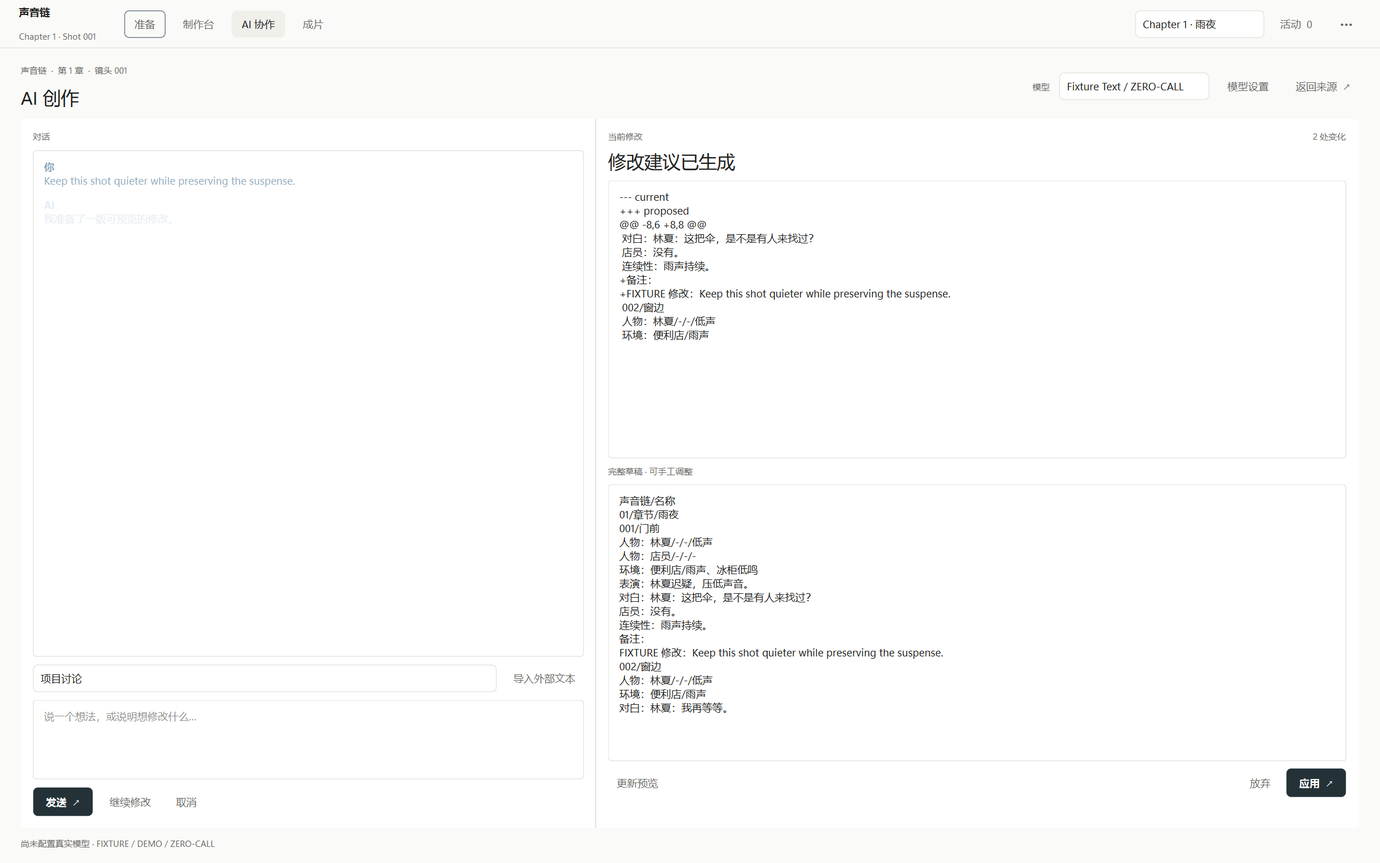
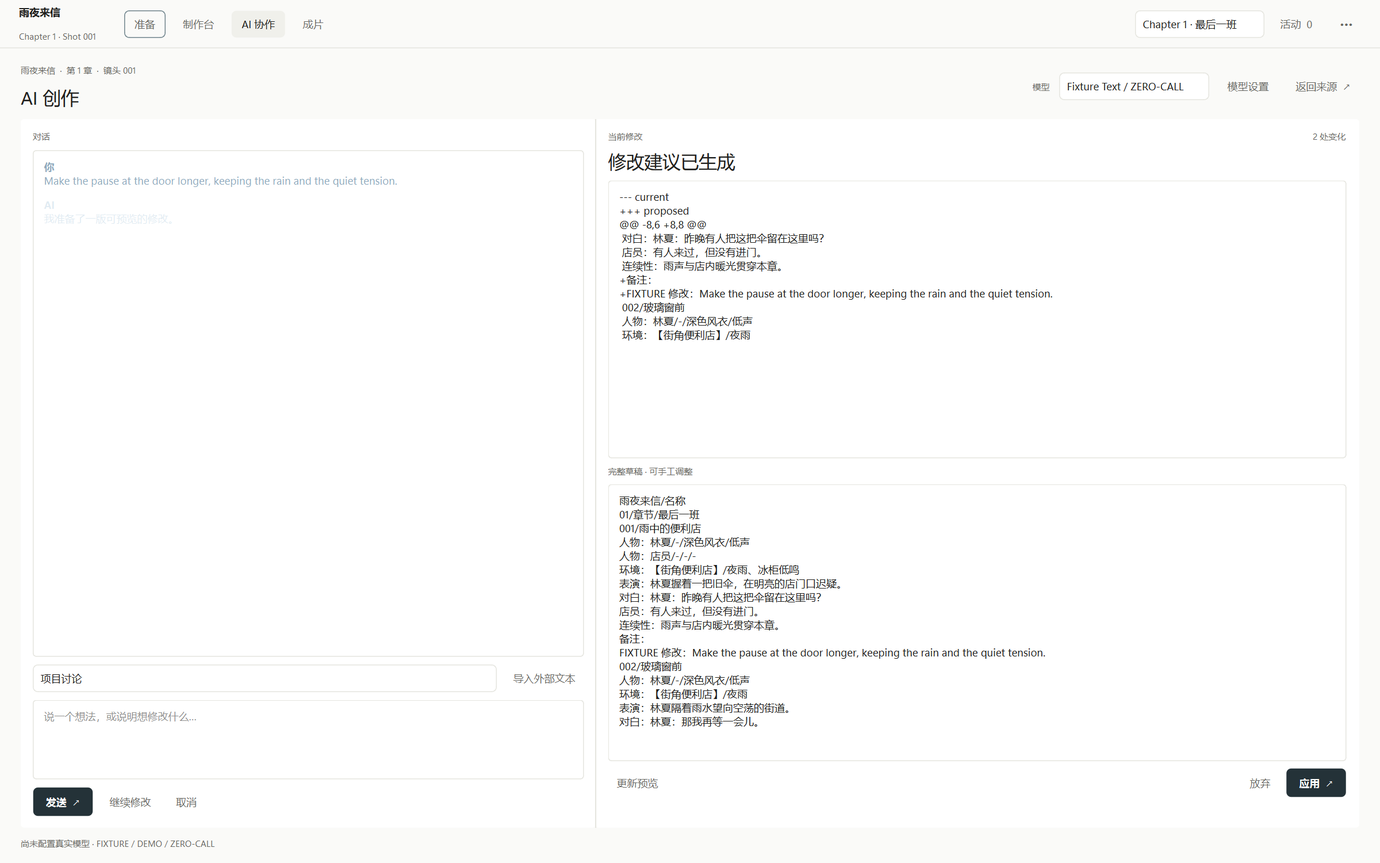
Document FFmpeg source gate and polish release assets

diff --git a/tools/capture_public_screenshots.py b/tools/capture_public_screenshots.py
@@ -2,6 +2,7 @@
 from __future__ import annotations
 
 import sys
+import subprocess
 from pathlib import Path
 from tempfile import TemporaryDirectory
 
@@ -18,7 +19,22 @@ from app.preparation.creative import CreativeService, Scope
 from app.preparation.production import ProductionService
 from app.preparation.runtime import ProductionRuntime
 from app.preparation.workspace import Workspace
-from tests.test_preparation_sound import SCRIPT
+SCRIPT = '''雨夜来信/名称
+01/章节/最后一班
+001/雨中的便利店
+人物：林夏/-/深色风衣/低声
+人物：店员/-/-/-
+环境：【街角便利店】/夜雨、冰柜低鸣
+表演：林夏握着一把旧伞，在明亮的店门口迟疑。
+对白：林夏：昨晚有人把这把伞留在这里吗？
+店员：有人来过，但没有进门。
+连续性：雨声与店内暖光贯穿本章。
+002/玻璃窗前
+人物：林夏/-/深色风衣/低声
+环境：【街角便利店】/夜雨
+表演：林夏隔着雨水望向空荡的街道。
+对白：林夏：那我再等一会儿。
+'''
 
 
 def settle(app: QApplication, milliseconds: int = 150) -> None:
@@ -39,6 +55,21 @@ def main() -> None:
         chapter = workspace.script.chapters[0]
         runtime = ProductionRuntime(workspace)
         production = ProductionService(workspace)
+        scene = ROOT / "app" / "preparation" / "demo_assets" / "convenience-store-night.png"
+        scene_clip = Path(temporary) / "rainy-convenience-store.mp4"
+        subprocess.run(
+            ["ffmpeg", "-hide_banner", "-loglevel", "error", "-y", "-loop", "1",
+             "-framerate", "25", "-i", str(scene), "-t", "4",
+             "-vf", "scale=960:540:force_original_aspect_ratio=increase,crop=960:540,format=yuv420p",
+             "-c:v", "libx264", "-preset", "veryfast", "-crf", "22",
+             "-movflags", "+faststart", str(scene_clip)],
+            check=True,
+        )
+        environment = next(r for r in workspace.script.requirements if r.kind == "environment")
+        environment_take = production.import_candidate(environment.id, chapter.shots[0].id, scene)
+        production.review(environment_take.id, "green", "Public synthetic scene reference")
+        production.bind(environment_take.id)
+        hero_candidate_id = None
         for shot in chapter.shots:
             request = runtime.build_request(shot.id, "video", None, "fixture-video-v1")
             job, _ = runtime.enqueue(request, user_intent="Public zero-call screenshot demo")
@@ -48,15 +79,19 @@ def main() -> None:
                 raise RuntimeError(f"Demo video fixture failed: {completed.status}")
             candidate = completed.candidate_ids[0]
             production.review(candidate, "green", "Public zero-call screenshot demo")
-            production.bind_shot(candidate)
+            imported = production.import_shot_candidate(shot.id, scene_clip)
+            production.review(imported.id, "green", "Local photo-based demo clip")
+            production.bind_shot(imported.id)
 
+            if shot.id == chapter.shots[0].id:
+                hero_candidate_id = imported.id
         shot = chapter.shots[0]
         scope = Scope(level="shot", chapter_id=chapter.id, shot_id=shot.id,
                       dialogue_id=shot.dialogues[0].id)
         creative = CreativeService(workspace)
         conversation = creative.active_conversation(scope)
         run, request = creative.begin(conversation["id"], "edit_shot",
-                                      "Keep this shot quieter while preserving the suspense.", scope)
+                                      "Make the pause at the door longer, keeping the rain and the quiet tension.", scope)
         creative.complete(run.id, request)
 
         shell = ApplicationShell(project, settings_path=Path(temporary) / "settings.json")
@@ -64,7 +99,7 @@ def main() -> None:
             shell.resize(1600, 1000)
             shell.show()
             settle(app, 250)
-            requirement = workspace.report()[0]["requirement"]["id"]
+            requirement = environment.id
             routes = (
                 ("production", {"object_type": "shot_current", "object_id": shot.id}),
                 ("preparation", {"object_type": "requirement", "object_id": requirement}),
@@ -73,6 +108,8 @@ def main() -> None:
             )
             for name, target in routes:
                 shell.navigate(name, chapter_id=chapter.id, shot_id=shot.id, **target)
+                if name == "production":
+                    shell.stack.currentWidget().refresh(hero_candidate_id)
                 settle(app, 220)
                 path = output / f"{name}-1600x1000.png"
                 if not shell.grab().save(str(path)):

diff --git a/tools/build_social_preview.py b/tools/build_social_preview.py
@@ -1,0 +1,47 @@
+"""Compose a GitHub social preview from the real public Production capture."""
+from __future__ import annotations
+
+from pathlib import Path
+
+from PIL import Image, ImageDraw, ImageFont
+
+
+ROOT = Path(__file__).resolve().parents[1]
+SCREENSHOT = ROOT / "docs/assets/screenshots/production-1600x1000.png"
+OUTPUT = ROOT / "docs/assets/social-preview.png"
+
+
+def font(size: int, bold: bool = False) -> ImageFont.FreeTypeFont:
+    name = "segoeuib.ttf" if bold else "segoeui.ttf"
+    return ImageFont.truetype(str(Path("C:/Windows/Fonts") / name), size)
+
+
+def main() -> None:
+    image = Image.new("RGB", (1280, 640), "#f6f8f9")
+    draw = ImageDraw.Draw(image)
+    draw.rounded_rectangle((28, 28, 1252, 612), radius=24, fill="#ffffff", outline="#dce5e9", width=2)
+    draw.rounded_rectangle((56, 61, 65, 111), radius=4, fill="#22a08a")
+    draw.text((85, 58), "AI Video Flow", font=font(53, True), fill="#142430")
+    draw.text((85, 141), "AI video production workflow", font=font(24), fill="#425968")
+    draw.text((85, 184), "for Windows", font=font(24), fill="#425968")
+    draw.line((85, 249, 405, 249), fill="#d6e1e6", width=2)
+    labels = ("PREPARATION", "PRODUCTION", "CREATIVE", "ASSEMBLY")
+    for index, label in enumerate(labels):
+        y = 280 + index * 54
+        draw.rounded_rectangle((85, y, 388, y + 40), radius=9,
+                               fill="#edf5f4" if index == 1 else "#f5f7f8")
+        draw.text((105, y + 10), label, font=font(17, True), fill="#21434a")
+    draw.text((85, 553), "v0.1.0-rc.1  ·  Real D-layout capture", font=font(17), fill="#6a7c86")
+
+    with Image.open(SCREENSHOT) as source:
+        ui = source.convert("RGB")
+        ui.thumbnail((767, 510), Image.Resampling.LANCZOS)
+    frame = Image.new("RGB", (780, 523), "#d8e2e7")
+    frame.paste(ui, ((780 - ui.width) // 2, (523 - ui.height) // 2))
+    image.paste(frame, (445, 58))
+    image.save(OUTPUT, optimize=True)
+    print(f"{OUTPUT.name}: {OUTPUT.stat().st_size} bytes")
+
+
+if __name__ == "__main__":
+    main()

diff --git a/tests/test_packaging.py b/tests/test_packaging.py
@@ -91,9 +91,11 @@ class PackagingContractTests(unittest.TestCase):
         root = Path(__file__).resolve().parents[1]
         spec = (root / "packaging/windows/AIGCFlow.spec").read_text(encoding="utf-8")
         self.assertIn('"third_party/licenses"', spec)
+        self.assertIn('"third_party/ffmpeg"', spec)
         self.assertIn('"virtualkeyboard" not in item[0].casefold()', spec)
         for relative in (
             "LICENSE", "THIRD_PARTY_NOTICES.md",
+            "third_party/ffmpeg/PROVENANCE.md",
             "third_party/licenses/LGPL-2.1.txt",
             "third_party/licenses/LGPL-3.0.txt",
             "third_party/licenses/GPL-3.0.txt",

diff --git a/docs/PUBLIC_RELEASE_DELTA_V0.1.md b/docs/PUBLIC_RELEASE_DELTA_V0.1.md
@@ -1,0 +1,50 @@
+# Final Release Polish & Compliance Gate V0.1 — delta review
+
+Date: 2026-09-24. Baseline: [`PUBLIC_RELEASE_AUDIT_V0.1.md`](PUBLIC_RELEASE_AUDIT_V0.1.md), local `master` at `babde0aea41c2bdef4ada10d0c580541bf620810`. This report covers only changes and rechecks since that audit. It does not authorize a GitHub repository, push, tag, Release or binary upload.
+
+**PUBLIC RELEASE GATE = FAIL · READY TO PUBLISH = NO.** The known GPLv3 static FFmpeg/FFprobe corresponding-source blocker remains. Visual improvements and passing installation smoke cannot waive it.
+
+## FFmpeg and distribution strategy
+
[1 lines of base64/hex data omitted]
+
+The installed package and inspected [vendor build page](https://www.gyan.dev/ffmpeg/builds/) expose the FFmpeg commit and distributor README, **not** a verified complete recipe, patches and accessible corresponding source for every statically linked component of these exact binary hashes. Some dependency versions are listed, but not a uniformly pinned source chain. This is an evidence gap, not an allegation of vendor noncompliance. [FFmpeg's legal guidance](https://ffmpeg.org/legal.html) and the [GNU GPL FAQ](https://www.gnu.org/licenses/gpl-faq.en.html) explain why the source must correspond to redistributed binaries. No complete source artifact or compliant access path has been verified; none is invented in the release notes or checksums.
+
+Strategy: retain the tested Gyan binaries **locally only**, with publication blocked. [BtbN's public build scripts and package recipes](https://github.com/BtbN/FFmpeg-Builds) are a promising replacement route, but an exact binary + recipe revision + corresponding-source package has not been fetched and verified here; swapping on that evidence would merely replace one unresolved chain with another and require new media/Installer QA. A minimal self-build is higher maintenance; unbundling FFmpeg would degrade install-and-run behavior and requires a separate product decision. The smallest next step is to obtain the exact Gyan source/build chain from the distributor, or verify and package a pinned alternative's complete corresponding source, then rerun the affected gate.
+
+The project's Apache-2.0 license still covers only its own code. FFmpeg and FFprobe remain GPLv3. No media dependency or executable changed; the distributed [`THIRD_PARTY_NOTICES.md`](../THIRD_PARTY_NOTICES.md) now links the exact-binary provenance record, which is bundled at `_internal/third_party/ffmpeg/PROVENANCE.md` and byte-identical to the repository copy. Previously audited Qt/PySide6, Qt Multimedia FFmpeg DLLs, OpenTimelineIO, PyInstaller, Inno Setup, CPython, Pillow and pydantic notices remain unchanged. Qt Virtual Keyboard remains excluded. Exact Qt module/source attribution should be rechecked before public binary publication, as noted in the baseline audit.
+
+## Presentation assets
+
+The [four screenshots](assets/screenshots/) were recaptured from the same real D-shell build with one disposable synthetic project, “雨夜来信”. The scene reference is the existing bundled rainy-store demo image. A local four-second H.264 clip was encoded from it and imported through the application's actual Candidate path; the other Production Candidate came from the zero-call fixture. The imported, green-reviewed clip was explicitly bound as Current and selected for the hero. Assembly consumes those Current clips. Creative displays a local fixture Proposal/Diff; no paid model was called. No demo project or generated clip is committed.
+
+The [README](../README.md) now identifies the selected media as a local import rather than claiming it is a fixture result. The five-stage [workflow SVG](assets/workflow-overview.svg) is editable and accessible. The standalone 1280×640 [social preview](assets/social-preview.png) uses the actual Production screenshot, not a mock UI. It is prepared for a future GitHub Social Preview setting but has not been uploaded or configured. [Asset regeneration notes](assets/README.md) document the logical viewport, source media and commands. Four physical screenshots are 2400×1500 due to 150% DPI; the social PNG is 1280×640. All were visually inspected after recapture. No screenshot contains a desktop, debug window, personal project or old user-visible product name.
+
+Installer presentation: the compiled Inno script and automated smoke report product/shortcut/PE name **AI Video Flow**, no Publisher fabrication, and successful install/uninstall/reinstall. A bounded attempt to capture the interactive wizard exposed its destination-page text and expected per-user path, but the desktop capture API returned the wrong window. That image was not committed, the test wizard was cancelled, and no setup process or installation was left running. **Welcome, tasks, install, finish and taskbar appearance have not been reliably visually signed off.** This is a remaining manual presentation check, not a claimed pass.
+
+## Rebuilt local artifacts
+
+The notice/provenance payload changed, so both Windows artifacts were rebuilt. Clean portable runtime, ZIP extraction, FFmpeg/FFprobe discovery, Installer install/launch/project-reopen/same-version-reinstall/uninstall-preserves-project/reinstall all passed. The executable identities did not change. Independent `Get-FileHash` recomputation matched `release/v0.1.0-rc.1/SHA256SUMS.txt`:
+
+| Local artifact | Bytes | SHA-256 |
+| --- | ---: | --- |
[2 lines of base64/hex data omitted]
+
+No source artifact exists because an adequate corresponding-source set has not been established. Both binaries and the checksum file remain local, Git-ignored and **not for public distribution**. [RC release notes](releases/v0.1.0-rc.1.md) and the Installer evidence index identify these as the latest local hashes, with older hashes retained only as history.
+
+## Delta security and regression
+
+- New/changed public text was scanned for common OpenAI/GitHub/AWS token shapes, private-key delimiters and personal drive paths: no hits. The four screenshots embed only DPI metadata; the social preview has no embedded metadata. The fixture project/clip lived in a temporary directory and was removed.
+- Existing historical author-email visibility and older evidence paths are unchanged. Author email public exposure still needs the account owner's decision; no history rewrite was attempted.
+- New SVG parsed as XML; README relative links/images, Markdown fences and the bundled provenance link passed the final local validation. No release binary, source archive or temporary wizard capture is staged.
+- Focused packaging contract: **7/7 PASS**. Final full suite: **172/172 PASS** in 192.495 seconds. No product runtime, Candidate/Current semantics, workspace layout or actual FFmpeg executable changed.
+
+## Remaining gate items
+
+1. **Release blocker:** establish, inspect and distribute complete corresponding source for the exact shipped static GPLv3 FFmpeg/FFprobe binaries, or adopt a pinned alternative with a verified source package; then rebuild/retest/rehash as required. Recheck the final Qt attribution at the same time.
+2. Manual presentation: review Welcome, destination, additional tasks, install and finish pages, then launch the installed app via Start Menu and check title/taskbar/icon/settings for user-visible old branding. The present environment did not provide a reliable visual capture.
+3. Account-owner decision: confirm whether the personal-domain Git author email in reachable history may be public. Do not rewrite history implicitly.
+4. When a remote is finally created, enable a real private vulnerability-reporting route and update `SECURITY.md` before announcing the project.
+
+Remote creation, push, tag, prerelease, asset upload and Social Preview account configuration remain deliberately unperformed. **BLOCKER = 1 confirmed compliance blocker; REGRESSION = 0 in completed automated gates; PUBLIC RELEASE GATE = FAIL; READY TO PUBLISH = NO.**

diff --git a/third_party/ffmpeg/PROVENANCE.md b/third_party/ffmpeg/PROVENANCE.md
@@ -1,0 +1,45 @@
+# FFmpeg / FFprobe binary provenance — v0.1.0-rc.1
+
+Status: **verified binary identity, incomplete corresponding-source chain**. This record is for the exact local Windows release candidate, not an assertion that binary redistribution is cleared. Do not publish Installer or portable ZIP while the source-delivery gate below is open.
+
+## Binary identity
+
+| Field | Value / evidence |
+| --- | --- |
+| Distributor | [Gyan.dev FFmpeg builds](https://www.gyan.dev/ffmpeg/builds/), WinGet package `Gyan.FFmpeg.Essentials` |
+| Package/build | `ffmpeg-8.1-essentials_build`, version string `8.1-essentials_build-www.gyan.dev` |
+| Architecture/toolchain | Windows x64 static; GCC 15.2.0 Rev11 / MSYS2 per `ffmpeg -version` |
+| FFmpeg source | Distributor `README.txt` points to [FFmpeg commit `9047fa1b08`](https://github.com/FFmpeg/FFmpeg/commit/9047fa1b08); no local source archive is supplied |
[2 lines of base64/hex data omitted]
+| License mode | GPLv3: `--enable-gpl --enable-version3 --enable-static`, with `libx264` and `libx265` enabled |
+| Package payload | The two executables, distributor `LICENSE` (GPLv3), distributor `README.txt`, and local runtime notice are copied under `_internal/runtime/ffmpeg/` in the onedir app |
+
+The exact `ffmpeg -version` configure line begins:
+
+```text
+--enable-gpl --enable-version3 --enable-static --disable-w32threads --disable-autodetect --enable-cairo --enable-fontconfig --enable-iconv --enable-gnutls --enable-libxml2 --enable-gmp --enable-bzlib --enable-lzma --enable-zlib --enable-libsrt --enable-libssh --enable-libzmq --enable-avisynth --enable-sdl2 --enable-libwebp --enable-libx264 --enable-libx265 --enable-libxvid --enable-libaom --enable-libopenjpeg --enable-libvpx --enable-mediafoundation --enable-libass --enable-libfreetype --enable-libfribidi --enable-libharfbuzz --enable-libvidstab --enable-libvmaf --enable-libzimg --enable-amf --enable-cuda-llvm --enable-cuvid --enable-dxva2 --enable-d3d11va --enable-d3d12va --enable-ffnvcodec --enable-libvpl --enable-nvdec --enable-nvenc --enable-vaapi --enable-openal --enable-libgme --enable-libopenmpt --enable-libopencore-amrwb --enable-libmp3lame --enable-libtheora --enable-libvo-amrwbenc --enable-libgsm --enable-libopencore-amrnb --enable-libopus --enable-libspeex --enable-libvorbis --enable-librubberband
+```
+
+The distributor README lists external libraries (not necessarily all static source obligations): AviSynth+, cairo, aom, ass, freetype, fribidi, harfbuzz, gme, gsm, lame, OpenCORE-AMR NB/WB, openjpeg, openmpt, opus, rubberband, speex, srt, ssh, theora, vidstab, vmaf, vo-amrwbenc, vorbis, vpx, webp, x264, x265, xvid, zimg, zmq, OpenAL, SDL2, and hardware-acceleration headers/libraries. It also lists some version identifiers—for example aom `v3.13.1-302-g935aaa9b71`, x264 `v0.165.3223`, x265 `4.1-240-g8be7dbf81`, and zimg `release-3.0.6-213-gbf3f425`—but not a uniform exact revision and fetch URL for every enabled component. The installed distribution has binaries, docs, presets, `LICENSE` and `README.txt`; no dependency source archives or complete build recipe were found.
+
+## Corresponding-source gate
+
+The [vendor page](https://www.gyan.dev/ffmpeg/builds/) confirms all regular builds are static GPLv3 and links the FFmpeg source commit. It does not, in the inspected material, publish a matching complete build recipe and source set for this exact 8.1 essentials package. The [vendor support repository](https://github.com/GyanD/codexffmpeg) is an issue/support repository, not an identified recipe archive for this binary. This is a documented evidence gap, **not proof that the distributor violates a license**. [FFmpeg's legal guidance](https://ffmpeg.org/legal.html) and the [GNU GPL FAQ](https://www.gnu.org/licenses/gpl-faq.en.html) explain why exact corresponding source matters when redistributing binaries.
+
+There is currently **no verified corresponding-source artifact or URL** for these two exact executable hashes. A link to the FFmpeg commit alone does not cover the enabled statically linked libraries and build scripts. Do not represent `third_party/licenses/GPL-3.0.txt` or this manifest as a substitute for source delivery.
+
+Minimum closure evidence, before publication:
+
+1. Obtain the complete source inputs and build-control scripts/patches for this exact package from the distributor, or adopt another binary whose exact source/build chain can be verified.
+2. Record every relevant source archive/commit and SHA-256, the build recipe revision, any patches, and how they correspond to the observed configure line and executable hashes. Independently spot-check the archive contents and dependency inventory.
+3. Make that corresponding source reasonably accessible alongside the downloadable binaries (a separate GitHub Release source asset or an equivalent explicit, durable source location), and include its hash in `SHA256SUMS.txt` if it is an asset.
+4. Rebuild the AI Video Flow Installer/ZIP if the binary or packaged notice changes; rerun media, portable, Installer and checksum gates. Update this manifest, notices and release notes with the actual final strategy.
+
+## Alternatives investigated
+
+- **Retain Gyan:** lowest regression risk, but currently fails the source-chain gate above. It is retained locally, not approved for publication.
+- **BtbN/FFmpeg-Builds:** [build scripts, package recipes and patch directories](https://github.com/BtbN/FFmpeg-Builds) are public, and tagged Windows builds exist. This is a promising replacement candidate, but no exact archived binary + script revision + complete source-delivery package was fetched and verified in this audit. Merely pointing to a moving branch would repeat the same gap. Replacement also requires the full media and Installer gates.
+- **Self-build or external dependency:** not adopted. A pinned minimal build could reduce enabled libraries but creates a Windows build-maintenance obligation. Requiring users to install FFmpeg separately would materially degrade the portable/Installer experience and needs a separate product decision.
+
+The project's Apache-2.0 license covers its own code only. FFmpeg/FFprobe retain their GPLv3 terms. Qt Multimedia's separate FFmpeg DLLs are documented in [`THIRD_PARTY_NOTICES.md`](../../THIRD_PARTY_NOTICES.md) and must not be conflated with these command-line executables.

diff --git a/THIRD_PARTY_NOTICES.md b/THIRD_PARTY_NOTICES.md
@@ -14,6 +14,6 @@ The [Apache-2.0 project license](LICENSE) applies to AI Video Flow's own code, n
 | PyInstaller bootloader | 6.22.3 packaging runtime | Bootloader in EXE; builder itself is not bundled | GPL-2.0-or-later with the [bootloader exception](https://pyinstaller.org/en/stable/license.html) | [`PyInstaller-COPYING.txt`](third_party/licenses/PyInstaller-COPYING.txt) from the installed distribution |
 | Inno Setup | 7.1.0 setup/uninstall runtime | Setup and uninstaller only; compiler is not installed with the app | [Inno Setup license](https://jrsoftware.org/isorder.php); commercial license purchase request is distinct from the installed text's permission to use/distribute | [`Inno-Setup-LICENSE.txt`](third_party/licenses/Inno-Setup-LICENSE.txt) from the installed compiler |
 
[2 lines of base64/hex data omitted]
 
 Qt Virtual Keyboard is GPL-only under the [Qt module list](https://doc.qt.io/qt-6/licensing.html); it is unused and explicitly excluded from the Windows bundle. Qt for Python's LGPL conditions and third-party licenses within the remaining Qt modules need a final distributable-contents check after every packaging change. This file documents provenance and known obligations; it is not a legal opinion.

diff --git a/docs/releases/v0.1.0-rc.1.md b/docs/releases/v0.1.0-rc.1.md
@@ -11,17 +11,17 @@ This is the first Windows release candidate. It is **not published yet**. When a
 
 ## Downloads and verification
 
-These are the **2026-09-24 pre-publication legal-notice rebuild** artifacts, not the original 2026-09-23 installer-gate binaries. The files are local release assets and must not be committed to Git source history.
+These are the **2026-09-24 pre-publication provenance-bearing rebuild** artifacts, superseding the earlier Installer-gate and notice-only binaries. The files are local release assets and must not be committed to Git source history. They are not authorized for public download while the FFmpeg corresponding-source gate remains open.
 
 | Asset | Size | SHA-256 |
 | --- | ---: | --- |
[4 lines of base64/hex data omitted]
 | `SHA256SUMS.txt` | 222 bytes | Contains both hashes above |
 
 On Windows PowerShell, compare `Get-FileHash -Algorithm SHA256 -LiteralPath <downloaded-file>` with `SHA256SUMS.txt`. The same hashes were independently recalculated after the final build.
 
-For the Installer, run `setup.exe` and follow the wizard; the Start Menu shortcut is installed and a desktop shortcut is optional. For portable, extract the ZIP and run `AIVideoFlow.exe` inside the extracted folder. Both distributions include `LICENSE`, `THIRD_PARTY_NOTICES.md`, and third-party license texts under `_internal/`.
+For the Installer, run `setup.exe` and follow the wizard; the Start Menu shortcut is installed and a desktop shortcut is optional. For portable, extract the ZIP and run `AIVideoFlow.exe` inside the extracted folder. Both distributions include `LICENSE`, `THIRD_PARTY_NOTICES.md`, license texts and the [FFmpeg provenance record](../../third_party/ffmpeg/PROVENANCE.md) under `_internal/`.
 
 ## Current limits
 

diff --git a/README.md b/README.md
@@ -2,15 +2,17 @@
 
 An open-source AI video production workflow for Windows. It organizes preparation, generation, review, creative revision, and assembly in one desktop application—not a one-prompt video generator.
 
-![AI Video Flow Production workspace showing a local zero-call video fixture and explicit Current binding](docs/assets/screenshots/production-1600x1000.png)
+![AI Video Flow Production workspace showing a locally imported Current clip and two reviewed Candidates](docs/assets/screenshots/production-1600x1000.png)
 
-*The current D-layout Production workspace, captured from a disposable demo project. The media shown is a local zero-call fixture, not a commercial model result.*
+*The current D-layout Production workspace, captured from a disposable synthetic demo project. The selected clip was made locally from the bundled demo scene image; another Candidate came from the zero-call fixture. Neither is a commercial model result.*
 
 ## What it is
 
 AI generation is one stage in a longer production process. AI Video Flow helps you keep the script, shared references, generated takes, human review, chosen take, creative changes, and output connected across shots and chapters.
 
 **Preparation → Production ↔ Creative → Assembly → Output**
+
+![Workflow overview: preparation, production, creative revision, assembly and output](docs/assets/workflow-overview.svg)
 
 - **Preparation:** derive shared asset requirements from a structured script, import references, and resolve missing inputs.
 - **Production:** run supported jobs, retain Candidates, review them, then explicitly bind a Current take. Green review alone does not select a take.
@@ -21,7 +23,7 @@ The [Project Map](docs/PROJECT_MAP.md) is the entry point for architecture, data
 
 ## Screenshots
 
-These are captures of the current PySide6 D layout using a temporary, public-safe demo project. Fixture media and text responses make no commercial provider calls.
+These are captures of the current PySide6 D layout using one temporary, public-safe demo project. The scene clip was imported from local media; the other Candidate and Creative text use zero-call fixtures. No commercial provider was called.
 
 | Preparation | Creative |
 | --- | --- |

diff --git a/docs/PROJECT_MAP.md b/docs/PROJECT_MAP.md
@@ -130,10 +130,11 @@ AI Agent 大型施工前：读本页 → 选 Change Map 行 → 读专题图 →
 - [Data Model](DATA_MODEL.md)：Truth owner、身份、落盘、schema。
 - [Runtime](RUNTIME.md)：Provider、Job、Creative、Assembly、媒体。
 - [Testing](TESTING.md)：测试层、变更验证、反向核验。
+- [FFmpeg provenance](../third_party/ffmpeg/PROVENANCE.md) 与 [Public Release Delta](PUBLIC_RELEASE_DELTA_V0.1.md)：精确媒体二进制来源、对应源码阻塞和本轮视觉/合规复审；不改变 Product Truth。
 - [Releasing](RELEASING.md)：portable、Installer、卸载/重装烟测、校验和与发布门禁。
 - [RC1 final regression](../evidence/V0.1-Windows-Packaging/final-regression.md)：上一轮 166/166 两次、关键集成 46/46 的发布证据；本地图不重新宣称执行了该轮测试。
 - 长期维护审计及核验附录（本地 `docs/AIGCFlow_长期维护与更新架构深度审计_V0.1*.md`）：用户原有未跟踪参考资料，不属于本次提交；公共导航不依赖它们。
 
 ## 现状与冻结文档的阅读警示
 
-`README.md` 的 V0.2 C/Preparation 段落已标为历史资料；以当前默认 D Shell 和发行代码为运行现状。冻结路线涵盖更宽的生成/模型愿景，当前媒体 Provider 注册仍仅 fixture；不是商业媒体能力已交付。冻结项目定义中的 Green 进入轻剪是概念性入口；当前实现采用更严格的显式 Current-only 交付边界，不能把 Green 自动当 Current。V0.2 扩展补充是设计资料，不把未来 Profile/能力当作 CURRENT。
+根目录 `README.md` 是当前英文产品首页；旧 V0.2 中文冻结资料是设计历史，以当前默认 D Shell 和发行代码为运行现状。冻结路线涵盖更宽的生成/模型愿景，当前媒体 Provider 注册仍仅 fixture；不是商业媒体能力已交付。冻结项目定义中的 Green 进入轻剪是概念性入口；当前实现采用更严格的显式 Current-only 交付边界，不能把 Green 自动当 Current。V0.2 扩展补充是设计资料，不把未来 Profile/能力当作 CURRENT。

diff --git a/docs/RELEASING.md b/docs/RELEASING.md
@@ -68,4 +68,4 @@ release/v0.1.0-rc.1/
 
 `tools/installer_smoke.py` 先拒绝覆盖已有同名用户安装，在独立临时目录静默安装；验证开始菜单/可选桌面 `.lnk` 目标、Apps & Features、PE metadata、无源码依赖的首次启动与五个 Workspace/Settings、项目关闭重开、同版重装、卸载保留项目、卸载后重装打开旧项目，最后卸载并检查清理。详见 `evidence/V0.1-Windows-Installer/`；该目录是本轮证据，旧 `evidence/V0.1-Windows-Packaging/` 不被覆盖。
 
-当前构建无代码签名证书，Windows SmartScreen 可能提示；不采用自签名或来路不明 packer。当前重新构建的双产物已包含根目录 `LICENSE`、`THIRD_PARTY_NOTICES.md` 和 `third_party/licenses/`。公开发布前须完成 [Public Release Audit](PUBLIC_RELEASE_AUDIT_V0.1.md)：随包静态 GPLv3 FFmpeg/FFprobe 的完整对应源码交付路径尚未证实，因此本地安装门禁通过不等于公开分发许可门禁通过。最终下载文件名、SHA-256 与 Release 草稿见 [v0.1.0-rc.1](releases/v0.1.0-rc.1.md)。
+当前构建无代码签名证书，Windows SmartScreen 可能提示；不采用自签名或来路不明 packer。重新构建的双产物包含根目录 `LICENSE`、`THIRD_PARTY_NOTICES.md`、`third_party/licenses/` 和 [FFmpeg 精确二进制 provenance](../third_party/ffmpeg/PROVENANCE.md)。公开发布前须完成 [Public Release Audit](PUBLIC_RELEASE_AUDIT_V0.1.md) 及 [本轮 Delta Review](PUBLIC_RELEASE_DELTA_V0.1.md)：随包静态 GPLv3 FFmpeg/FFprobe 的完整对应源码交付路径尚未证实，因此本地安装门禁通过不等于公开分发许可门禁通过。最终下载文件名、SHA-256 与 Release 草稿见 [v0.1.0-rc.1](releases/v0.1.0-rc.1.md)。

diff --git a/docs/assets/README.md b/docs/assets/README.md
@@ -1,0 +1,14 @@
+# Public presentation assets
+
+The four `screenshots/*-1600x1000.png` files are real captures of the current PySide6 D shell at a 1600×1000 **logical** viewport (2400×1500 physical pixels on the capture machine's 150% DPI display). They use one temporary synthetic project, “雨夜来信”. The local rainy-store demo image already bundled with the app is encoded into a temporary four-second clip and imported as a Candidate; a separate Candidate uses the zero-call video fixture. Neither represents a paid model output. No demo project, personal path, API key or paid-provider response is committed.
+
+Regenerate on Windows with Python dependencies and FFmpeg on `PATH`:
+
+```powershell
+python tools/capture_public_screenshots.py
+python tools/build_social_preview.py
+```
+
+`workflow-overview.svg` is a small editable vector diagram; its accessible description explains the bidirectional Production–Creative collaboration. `social-preview.png` is a standalone 1280×640 PNG composed from the actual Production screenshot. Upload it in the future GitHub repository's Social Preview setting **after** publication is authorized; adding the file here does not set the GitHub account or repository configuration.
+
+When recapturing, inspect all screens for current Product Truth, path/privacy leakage, missing media, legibility and outdated UI. Regenerate the social image after any Production screenshot change. Do not retouch app controls or present local fixture/imported media as commercial model output.

diff --git a/evidence/V0.1-Windows-Installer/README.md b/evidence/V0.1-Windows-Installer/README.md
@@ -37,3 +37,12 @@ The release build was rerun after adding project and third-party license materia
[1 lines of base64/hex data omitted]
 
 These replace the historical hashes above. The static GPLv3 FFmpeg/FFprobe corresponding-source delivery path still requires confirmation before any binary publication. See `docs/PUBLIC_RELEASE_AUDIT_V0.1.md`; a passed installer smoke is not a passed public-release licensing gate.
+
+## 2026-09-24 provenance-bearing rebuild (latest local candidate)
+
+The formal `third_party/ffmpeg/PROVENANCE.md` was added to the onedir bundle and linked from the distributed notice. The exact same Gyan FFmpeg/FFprobe executables remain; no media/runtime code changed. The portable clean-runtime/ZIP extraction and Installer install/reinstall/uninstall smoke all passed again. These local artifacts supersede both earlier hash pairs:
+
[2 lines of base64/hex data omitted]
+
+`release/v0.1.0-rc.1/SHA256SUMS.txt` lists this pair. Corresponding-source delivery is still unresolved, so **do not publish the binaries**. The Installer wizard's controls were inspected as far as automation allowed, but reliable visual captures of every page were not obtained; interactive presentation review remains open.
